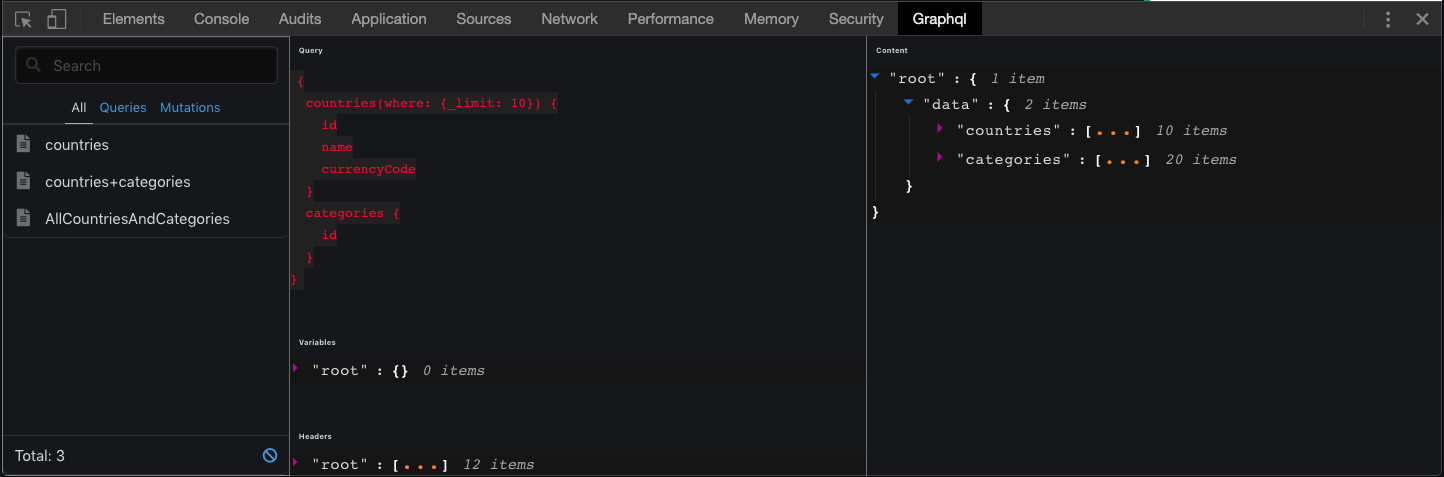
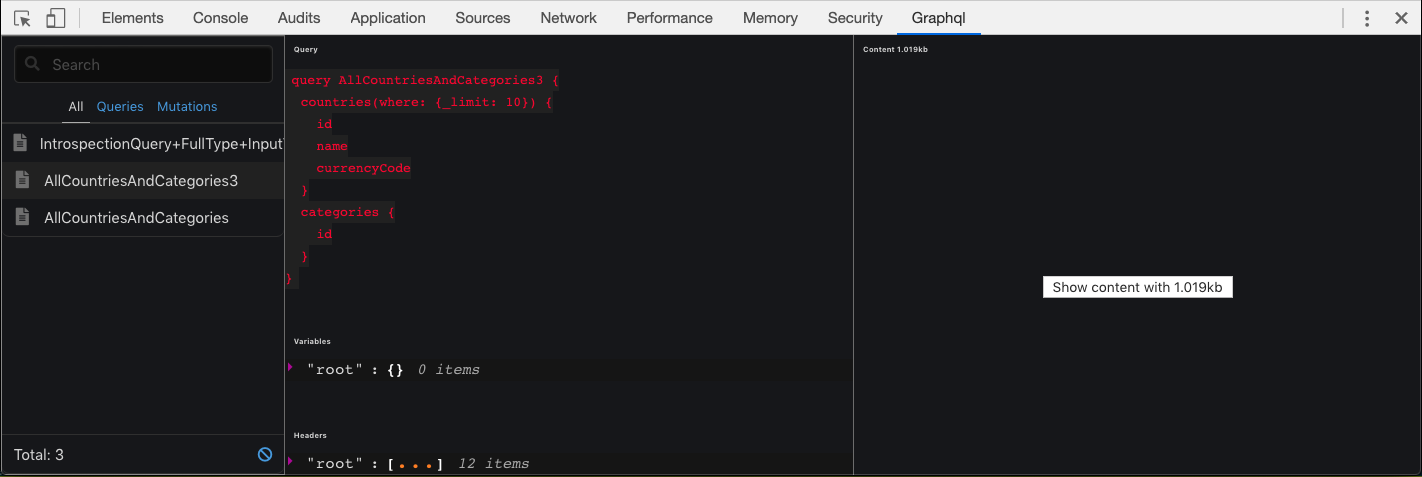
fle

diff --git a/src/panel.js b/src/panel.js
@@ -210,7 +210,7 @@ function NewApp() {
                 </div>
               </div>
             </Column>
-            <Column borderLeft scrollabled is-half>
+            <Column borderLeft scrollabled is-half is-flex>
               <Content operation={operation} />
             </Column>
           </Columns>
@@ -241,7 +241,7 @@ const Content = ({operation}) => {
   return (
     <React.Fragment>
       <div className={cl('label')}>Content {operation.size/1000}kb</div>
-      {!showContent && <div className="content-button"><button onClick={()=>setShowContent(true)}>Show content with {operation.size/1000}kb</button></div>}
+      {!showContent && <div className="content-button is-flex"><button onClick={()=>setShowContent(true)}>Show content with {operation.size/1000}kb</button></div>}
       {showContent && <ReactJson
         theme="summerfruit"
         displayDataTypes={false}

diff --git a/devtools-extension/dist/panel.js b/devtools-extension/dist/panel.js
@@ -32706,7 +32706,8 @@ function NewApp() {
   })))), react.createElement(Column, {
     borderLeft: true,
     scrollabled: true,
-    "is-half": true
+    "is-half": true,
+    "is-flex": true
   }, react.createElement(Content, {
     operation: operation
   })))));
@@ -32740,7 +32741,7 @@ var Content = function Content(_ref7) {
   return react.createElement(react.Fragment, null, react.createElement("div", {
     className: cl('label')
   }, "Content ", operation.size / 1000, "kb"), !showContent && react.createElement("div", {
-    className: "content-button"
+    className: "content-button is-flex"
   }, react.createElement("button", {
     onClick: function onClick() {
       return setShowContent(true);

diff --git a/devtools-extension/panel.html b/devtools-extension/panel.html
@@ -87,6 +87,7 @@
     justify-content: center;
     align-items: center;
     display: flex;
+    flex: 1;
   }
 	.container.is-fluid, .columns, .column {
 		padding: 0px !important;
